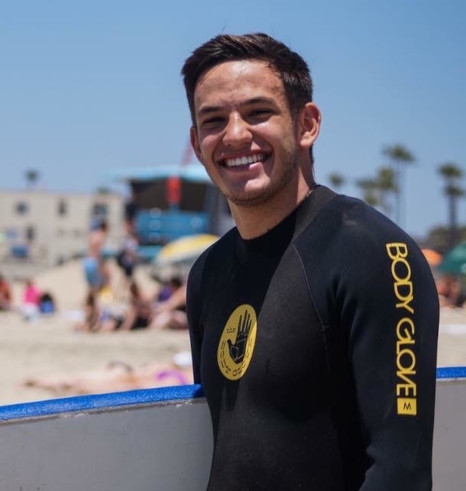
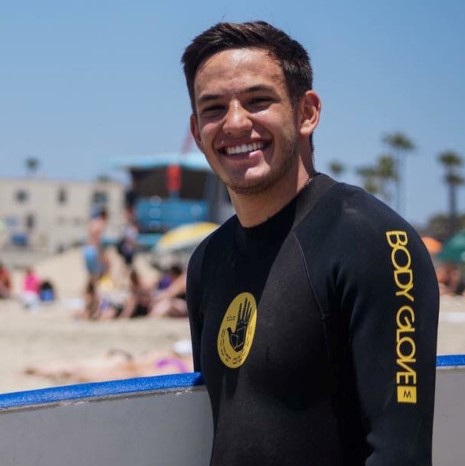
About Us Page Styling

diff --git a/src/src/app/about-us/about-us.component.html b/src/src/app/about-us/about-us.component.html
@@ -3,88 +3,85 @@
   <div class="row">
     <div class="col-2"></div>
     <div class="col-8">
-      <p>
+      <p class="explanation-p">
         Peak Processing serves as the Senior Design Project for the following
         undergraduate students at the University of Wyoming. The objective of
         this site is to display the skills of each student in their respective
-        field. For Adeline and Dylan, both of whom are web developers, this
+        fields. For Adeline and Dylan, both of whom are web developers, this
         project serves as a basis to demonstrate front-end and back-end
-        development while also allowing us to express ourselves creatively as
-        individuals. For Austin, this project enables him to showcase his
-        statistical background by creating the AI model that classifies
-        mountains peaks and ranges.
+        development while also allowing them to express themselves creatively. 
+        For Austin, this project enables him to showcase his
+        statistical background by creating the machine learning model that classifies
+        mountain peaks and ranges.
       </p>
     </div>
     <div class="col-2"></div>
   </div>
-  <br />
-  <br />
-  <div class="row">
-    <div class="col-4 text-center">
+  <div class="row all-bios">
+    <div class="col-4 text-center individual-bio adeline">
+      <br />
       <h1 class="about-us-name">Adeline Reichert</h1>
-      <img src="assets/Addie_Bio_Picture.jpg" />
-      <h3>
-        B.S. Computer Science
-        <h4>
-          <a href="https://www.LinkedIn.com/in/Adeline-Reichert/"
-            ><img
-              class="linkedin-icon"
-              src="assets/LinkedinIcon.png"
-              alt="LinkedIn Profile"
-          /></a>
-        </h4>
-      </h3>
+      <img class="bio-pic" src="assets/Addie_Bio_Picture.jpg" />
+      <h3 class="major-header">B.S. Computer Science</h3>
+      <a href="https://www.LinkedIn.com/in/Adeline-Reichert/" target="_blank">
+        <img
+          class="linkedin-icon"
+          src="assets/LinkedinIcon.png"
+          alt="LinkedIn Profile"
+        />
+      </a>
       <p>
-        Adeline is a logical, hard-working, and organized senior at the
+        <!-- Adeline is a logical, hard-working, and organized senior at the
         University of Wyoming studying computer science with a concentration in
         computers and business and a certificate in cybersecurity. She is also
-        pursuing minors in mathematics and business. Adeline's current interests
+        pursuing minors in mathematics and business.  -->
+        Adeline's current interests
         lie in web development and she is enjoying exploring and constantly
         learning different pieces of the development stack. In her free time,
         she enjoys hosting board game nights and getting lost in all different
         types of movies.
       </p>
     </div>
-    <div class="col-4 text-center">
+    <div class="col-4 text-center individual-bio dylan">
+      <br />
       <h1 class="about-us-name">Dylan Miller</h1>
-      <img src="assets/Dylan_Bio_Picture.jpg" />
-      <h3>
+      <img class="bio-pic" src="assets/Dylan_Bio_Picture.jpg" />
+      <h3 class="major-header">
         B.S. Computer Engineering, B.S. Computer Science
-        <h4>
-          <a href="https://www.linkedin.com/in/dylan-luke-miller/"
-            ><img
-              class="linkedin-icon"
-              src="assets/LinkedinIcon.png"
-              alt="LinkedIn Profile"
-          /></a>
-        </h4>
       </h3>
+      <a href="https://www.linkedin.com/in/dylan-luke-miller/" target="_blank">
+        <img
+          class="linkedin-icon"
+          src="assets/LinkedinIcon.png"
+          alt="LinkedIn Profile"
+        />
+      </a>
       <p>
-        I am a web developer who is passionate about all aspects of computing.
-        As a hardware engineer, I have specialized in the physical design of
+        Dylan is a web developer who is passionate about all aspects of computing.
+        As a hardware engineer, he has specialized in the physical design of
         integrated circuits (VLSI) and higher-level digitial design (VHDL). As a
-        web developer, I am passionate about both front-end and back-end
+        web developer, he is passionate about both front-end and back-end
         development for modern web applications.
       </p>
     </div>
-    <div class="col-4 text-center">
+    <div class="col-4 text-center individual-bio austin">
+      <br />
       <h1 class="about-us-name">Austin Stephen</h1>
-      <img src="assets/Austin_Bio_Picture.jpg" />
-      <h3>
+      <img class="bio-pic" src="assets/Austin_Bio_Picture.jpg" />
+      <h3 class="major-header">
         B.S. Statistics, B.S. Computer Science
-        <h4>
-          <a href="https://www.linkedin.com/in/austin-stephen-comp-sci/"
-            ><img
-              class="linkedin-icon"
-              src="assets/LinkedinIcon.png"
-              alt="LinkedIn Profile"
-          /></a>
-        </h4>
       </h3>
+      <a href="https://www.linkedin.com/in/austin-stephen-comp-sci/" target="_blank">
+        <img
+          class="linkedin-icon"
+          src="assets/LinkedinIcon.png"
+          alt="LinkedIn Profile"
+        />
+      </a>
       <p>
-        I am interested in automated machine learning, applications of
-        statisitics, and statistical compunting. Outside of academic pursuits, I
-        enjoy backpacking and trail running.
+        Austin is interested in automated machine learning, applications of
+        statisitics, and statistical computing. Outside of academic pursuits, he
+        enjoys backpacking and trail running.
       </p>
     </div>
   </div>

diff --git a/src/src/app/about-us/about-us.component.scss b/src/src/app/about-us/about-us.component.scss
@@ -1,4 +1,37 @@
+@use 'sass:map';
+@import '~@angular/material/theming';
+@import '../../theme.scss';
+@include angular-material-theme($color-theme);
+
+.explanation-p {
+  text-align: center;
+  font-size: 16px;
+}
+
+.all-bios:hover > .individual-bio:not(:hover){
+  opacity: 0.3;
+}
+
+.individual-bio:hover {
+  background-color: map.get(map.get($color-theme, 'accent'), 50);
+}
+
+.about-us-name {
+  background-color: map.get(map.get($color-theme, 'accent'), 800);
+  color: map.get(map.get(map.get($color-theme, 'accent'), 'contrast'), 800);
+  border-radius: 25px;
+}
+
+.bio-pic {
+  width: 100%;
+}
+
+.major-header {
+  margin: 0px;
+}
+
 .linkedin-icon {
-  height: 2vh;
-  width: 1vw;
+  height: 2em;
+  width: 2em;
+  margin: 0px;
 }
